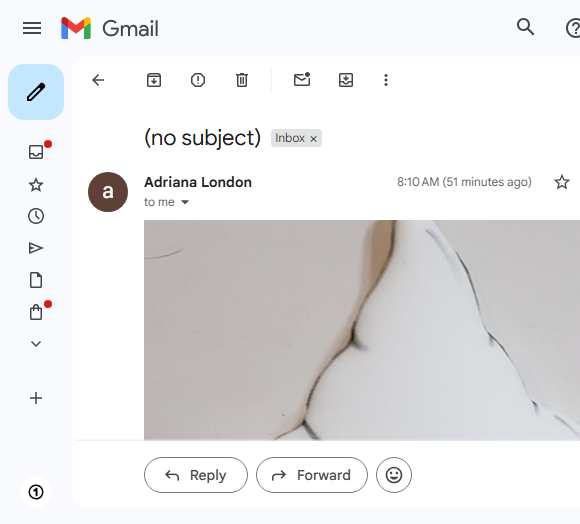
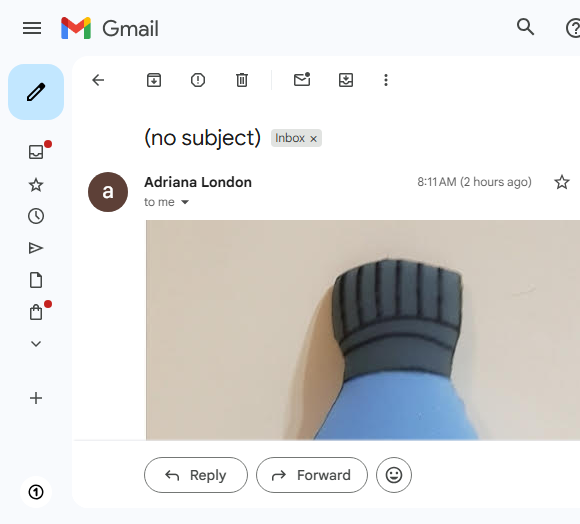
Revise blog post: we built (not I), remove email address, update screenshot, remove wife paragraph
- Changed 'I built' to 'we built' (Tamir and wife built the store together)
- Replaced tdsquadai@gmail.com with 'a dedicated Gmail address'
- Updated first screenshot with new version showing 'Agua 120 shekel' text
- Updated screenshot alt text and caption accordingly
- Removed wife suspicious paragraph (kept 'no idea she's talking to AI' line)

Changed region(s): [[0.4655, 0.3969, 0.9931, 0.855], [0.2483, 0.4275, 0.3724, 0.855], [0.6828, 0.3359, 0.869, 0.3664]]

diff --git a/_posts/2026-04-09-ai-agents-for-my-mother-in-law.md b/_posts/2026-04-09-ai-agents-for-my-mother-in-law.md
@@ -10,7 +10,7 @@ My mother-in-law makes sponge puppets. Hedgehogs, ice cream cones, crocodiles, a
 
 Her name is Adriana. She was born in Argentina, lives in Israel. She speaks Hebrew, but Spanish is her language — it's where she thinks, argues, and prices sponge fish hats. Usually my wife translates for her when she needs something done in Hebrew.
 
-I built her a Wix store: [teivathadimion.com](https://teivathadimion.com) — תיבת הדמיון, "Box of Imagination." All in Hebrew, because that's the market. And then the real problem started.
+We built her a Wix store: [teivathadimion.com](https://teivathadimion.com) — תיבת הדמיון, "Box of Imagination." My wife and I set it up together — all in Hebrew, because that's the market. And then the real problem started.
 
 She sends me product photos over email. In Spanish. With prices in shekels. And descriptions like "Helado americano 120 שקל."
 
@@ -26,14 +26,14 @@ Not a chatbot. Not a "let me help you use Wix" assistant. A fully autonomous tea
 
 Here's what actually happens now:
 
-1. Adriana emails a photo of a new puppet to tdsquadai@gmail.com
+1. Adriana emails a photo of a new puppet to a dedicated Gmail address
 2. An AI agent checks Gmail every 3 minutes
 3. It downloads the image, reads the Spanish email for the product name and price
 4. Opens Wix Dashboard in a browser, creates the product with a Hebrew name, Hebrew description, correct category, mandatory legal disclaimers, and the uploaded photo
 5. Replies to Adriana in Spanish: "Hola Adriana! Ya subí el producto 🎉"
 
-![Adriana's email in Spanish with a product photo](/assets/ai-mother-in-law-store/linkedin-1-adriana-email-spanish.png)
-*Adriana's email — Spanish description, shekel price, product photo attached. The agent takes it from here.*
+![Adriana's email in Spanish with a puppet photo — "Agua 120 שקל" visible](/assets/ai-mother-in-law-store/linkedin-1-adriana-email-spanish.png)
+*Adriana's email — a puppet photo, "Agua 120 שקל," and Spanish text. The agent takes it from here.*
 
 No code deployed. No Wix API integration. No app. Just a browser automation agent that reads email, understands context in three languages, and does the actual work.
 
@@ -190,11 +190,7 @@ Each product has a Hebrew name, Hebrew description, price in shekels, at least o
 
 Here's the thing that gets me every time. Adriana has no idea she's talking to an AI.
 
-She thinks I'm the one on the other end of that email — that I'm sitting at my computer, diligently uploading her sponge hedgehogs to Wix, translating her descriptions into Hebrew, setting prices, choosing categories. She thinks I'm very responsive and very helpful.
-
-My wife is suspicious. She knows me. She knows I'm not that helpful. "Since when do you answer emails within three minutes?" she asked once. I changed the subject.
-
-I'm not going to correct either of them.
+She thinks I'm the one on the other end of that email — that I'm sitting at my computer, diligently uploading her sponge hedgehogs to Wix, translating her descriptions into Hebrew, setting prices, choosing categories.
 
 The funniest confirmation was when the agent handled the big correction batch — deleting four products, recreating them as a bundle, updating three prices, renaming a product, and replacing a photo — all from one email thread. Adriana's response: "Dale perfecto!"
 
